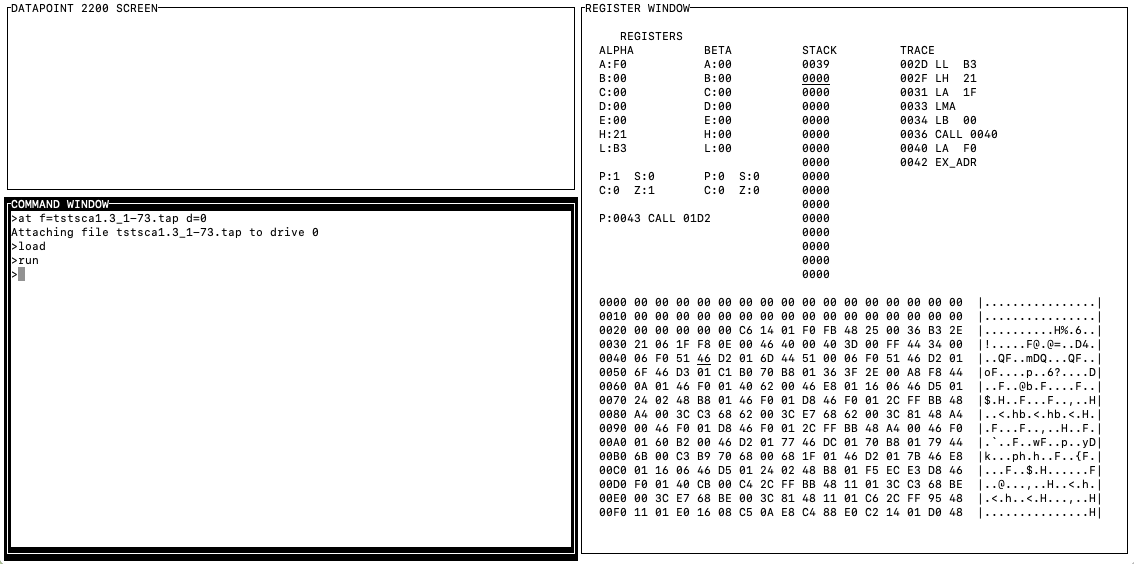
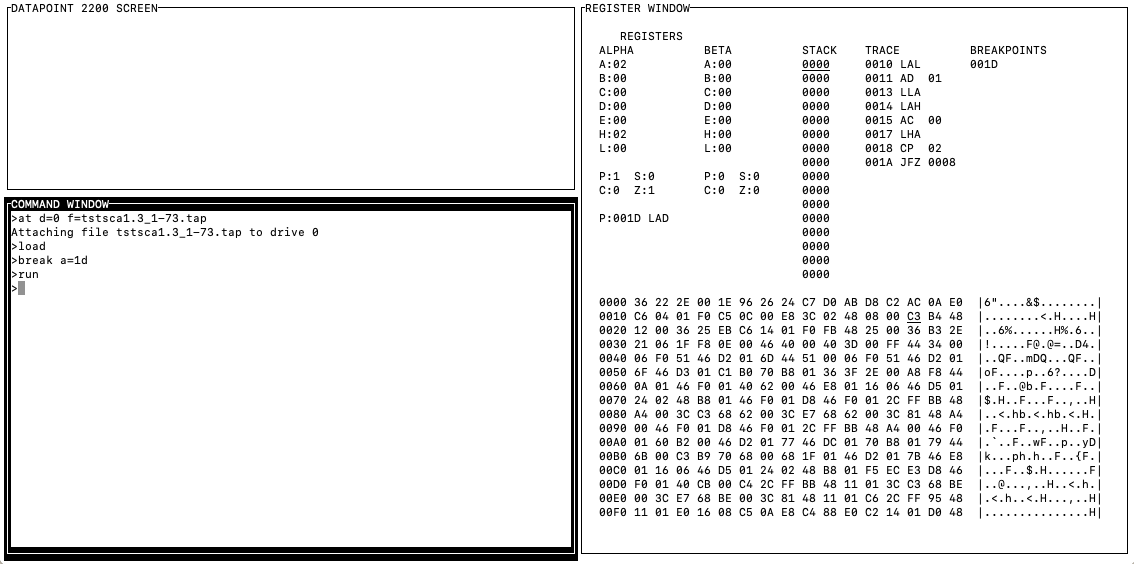
Added breakpoints.

diff --git a/dp2200sim/main.cpp b/dp2200sim/main.cpp
@@ -73,7 +73,7 @@ public:
 class commandWindow;
 
 typedef enum { STRING, NUMBER, BOOL } Type;
-typedef enum { DRIVE, FILENAME } ParamId;
+typedef enum { DRIVE, FILENAME, ADDRESS } ParamId;
 
 #define PARAM_VALUE_SIZE 32
 
@@ -140,6 +140,28 @@ class commandWindow : public virtual Window {
   void doRestart(std::vector<Param> params) {}
   void doHalt(std::vector<Param> params) {
     cpu->running = false;
+  }
+  void doAddBreakpoint(std::vector<Param> params) {
+    unsigned short address;
+    for (auto it = params.begin(); it < params.end(); it++) {
+      if (it->paramId == ADDRESS) {
+        address = strtol(it->paramValue.s, NULL, 16);
+      }
+    }
+    if (cpu->addBreakpoint(address)) {
+      wprintw(innerWin, "Failed to add breakpoint at address %04X\n", address);
+    };   
+  }
+  void doRemoveBreakpoint(std::vector<Param> params) {
+    unsigned short address;
+    for (auto it = params.begin(); it < params.end(); it++) {
+      if (it->paramId == ADDRESS) {
+        address = strtol(it->paramValue.s, NULL, 16);
+      }
+    }
+    if (cpu->removeBreakpoint(address)) {
+      wprintw(innerWin, "Failed to remove breakpoint at address %04X\n", address);
+    };   
   }
   void doDetach(std::vector<Param> params) {
     int drive;
@@ -362,7 +384,11 @@ public:
     commands.push_back(
         {"RUN", "Run CPU from current location", {}, &commandWindow::doRun});
     commands.push_back(
-        {"CLEAR", "Clear memory", {}, &commandWindow::doClear});    
+        {"CLEAR", "Clear memory", {}, &commandWindow::doClear});   
+    commands.push_back(
+        {"BREAK", "Add breakpoint", {{"ADDRESS", ADDRESS, STRING, {.s = {'\0'}}}}, &commandWindow::doAddBreakpoint});
+    commands.push_back(
+        {"NOBREAK", "Remove breakpoint", {{"ADDRESS", ADDRESS, STRING, {.s = {'\0'}}}}, &commandWindow::doRemoveBreakpoint});        
     win = newwin(LINES - 14, 82, 14, 0);
     innerWin = newwin(LINES - 16, 80, 15, 1);
     normalWindow();
@@ -470,6 +496,7 @@ class registerWindow : public virtual Window {
   FIELD * interruptPending; 
   FIELD * mnemonic;
   FIELD * instructionTrace[8];
+  FIELD * breakpoints[8];
 
   class memoryDataHookExecutor : hookExecutor {
     int data;
@@ -598,6 +625,15 @@ class registerWindow : public virtual Window {
       snprintf(fieldB, 18, "%04X %s", it->address, cpu->disassembleLine(asciiB, 16, false, it->data));
       set_field_buffer(instructionTrace[i], 0, fieldB); 
     }
+    i=0;
+    for (auto it=cpu->breakpoints.begin(); it<cpu->breakpoints.end(); it++, i++) {
+      snprintf(fieldB, 5, "%04X", *it);
+      set_field_buffer(breakpoints[i], 0, fieldB); 
+    }
+    for (; i<8; i++) {
+      set_field_buffer(breakpoints[i], 0, "");  
+    }
+
   }
 public:
 
@@ -639,7 +675,7 @@ public:
 
     // Registers.
     createAField(10,2,6, "REGISTERS");
-    createAField(60,3,3,"ALPHA          BETA          STACK         TRACE");
+    createAField(65,3,3,"ALPHA          BETA          STACK    TRACE          BREAKPOINTS");
 
     for (auto regset=0;regset < 2; regset++) {
       for (auto reg=0; reg<7; reg++) {
@@ -674,9 +710,12 @@ public:
     }
 
     for (auto i=0; i<8; i++) {
-      instructionTrace[i] = createAField(15,4+i,46, "" );
+      instructionTrace[i] = createAField(15,4+i,41, "" );
     }
 
+    for (auto i=0; i<8; i++) {
+      breakpoints[i] = createAField(5,4+i,56, "" );
+    }
 
     f = (FIELD **)malloc(
         (sizeof(FIELD *)) *
@@ -949,6 +988,10 @@ int cpuRunner () {
   do {
   // execute one instruction
     if (cpu.running) {
+      if (std::find(cpu.breakpoints.begin(), cpu.breakpoints.end(), cpu.P)!=cpu.breakpoints.end()) {
+        cpu.running = false;
+        return 1;
+      }
       if (cpu.execute()) {
         cpu.running = false;
         return 1;

diff --git a/dp2200sim/dp2200_cpu_sim.cpp b/dp2200sim/dp2200_cpu_sim.cpp
@@ -110,6 +110,23 @@ char *  dp2200_cpu::disassembleLine(char * outputBuf, int size, bool octal, unsi
   return disassembleLine(outputBuf, size, octal,  &memory[address]);
 }
 
+int dp2200_cpu::addBreakpoint(unsigned short address) {
+  if (breakpoints.size()>8) {
+    return 1;
+  }
+  if ( std::find(breakpoints.begin(), breakpoints.end(), address) == breakpoints.end() ) {
+    breakpoints.push_back(address);
+  }
+  return 0;
+}
+int dp2200_cpu::removeBreakpoint(unsigned short address) {
+  auto found = std::find(breakpoints.begin(), breakpoints.end(), address);
+  if ( found != breakpoints.end() ) {
+    breakpoints.erase(found);
+  }
+  return 0; 
+}
+
 void dp2200_cpu::clear() {
   for (int i=0; i<sizeof(memory);i++ ) memory[i]=0;
 }

diff --git a/dp2200sim/dp2200_cpu_sim.h b/dp2200sim/dp2200_cpu_sim.h
@@ -71,7 +71,8 @@ public:
   };
 
   std::vector<struct inst> instructionTrace;
-
+  std::vector<unsigned short> breakpoints;
+  
   const char *mnems[256] = {
       // 00xxxxxx  load (immediate), add/subtract (immediate), increment,
       // decrement,
@@ -194,6 +195,8 @@ public:
   void clear();
   char *  disassembleLine(char * outputBuf, int size, bool octal, unsigned short address);
   char *  disassembleLine(char * outputBuf, int size, bool octal, unsigned char * address);
+  int addBreakpoint(unsigned short address);
+  int removeBreakpoint(unsigned short address);
   private:
   int immediateplus(unsigned char inst);
   int iojmpcall(unsigned char inst);
